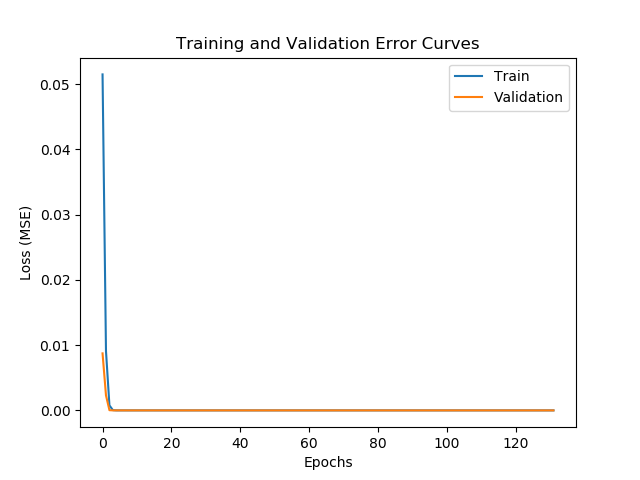
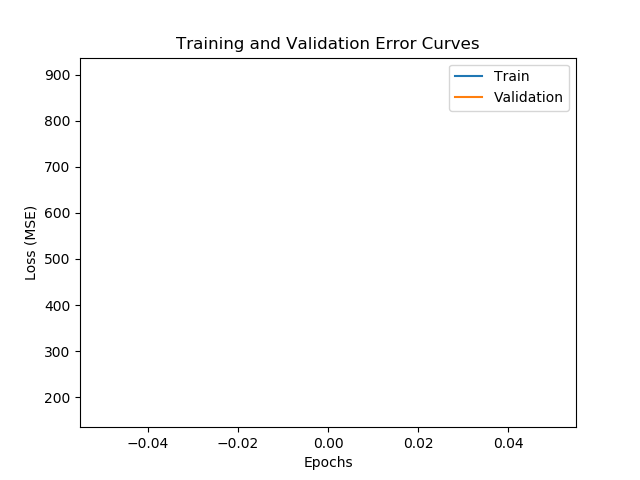
Network training correctly. Started video creation.

diff --git a/neurallib/datasetManager/dataset.py b/neurallib/datasetManager/dataset.py
@@ -7,6 +7,11 @@ from sklearn.utils import shuffle
 from sklearn.preprocessing import StandardScaler, MinMaxScaler
 from neurallib.Util import plot_scatter_matrix, plot_boxPlot
 
+
+import matplotlib.pyplot as plt
+import matplotlib.style
+import matplotlib as mpl
+
 class DataSet:
 	def __init__(self, path, headers, sampling=None, type='table', look_back=1):
 		self.path = path
@@ -32,16 +37,16 @@ class DataSet:
 			self.dataframe = self.concatenate_and_shuffle_dataset(df1, df2)
 
 		elif(type == 'series'):
-			selection = self.__get_selection()
+			self.selection = self.__get_selection()
 			self.dataframe = []
 			self.scalers = []
 
 			__min_size = 0
 
-			for tag in selection["tagids"]:
+			for tag in self.selection["tagids"]:
 				dataframe_slice = main[main.tagid == tag]
 				d_set_aux = []
-				for key in selection["keys"]:
+				for key in self.selection["keys"]:
 					list_to_append = list(dataframe_slice[key].values)
 					if __min_size == 0:
 						__min_size = len(list_to_append)
@@ -167,28 +172,38 @@ class DataSet:
 		time_steps = dataset_shape[len(dataset_shape)-2:][0]
 
 		#normalize the dataset for each sample and feature
-		dataset, scalers = self.__normalize_multidimentional_series(dataset, dataset_shape)
+		#dataset, scalers = self.__normalize_multidimentional_series(dataset, dataset_shape)
 
 		# split into train and test sets
 		train_size = int(time_steps * 0.50)
-		val_size = int(time_steps * 0.25)
 		test_size = int(time_steps * 0.25)
+		val_size = int(time_steps * 0.25)
 
-		train, val, test = self.__split_multidimentional_series(dataset, (0, train_size)),\
+		train, test, val = self.__split_multidimentional_series(dataset, (0, train_size)),\
 		self.__split_multidimentional_series(dataset, (train_size,train_size+val_size)),\
 		self.__split_multidimentional_series(dataset, (train_size+val_size,time_steps))
 
-		#create lookback
+		# create lookback frame
 		X_train, y_train = self.__create_lookback_frame(train, look_back)
-		X_val, y_val = self.__create_lookback_frame(val, look_back)
 		X_test, y_test = self.__create_lookback_frame(test, look_back)
+		X_val, y_val = self.__create_lookback_frame(val, look_back)
 
-		X_train = np.reshape(X_train[0], (X_train.shape[2], X_train.shape[1], X_train.shape[3]))
-		X_val = np.reshape(X_val[0], (X_val.shape[2], X_val.shape[1], X_val.shape[3]))
-		X_test = np.reshape(X_test[0], (X_test.shape[2], X_test.shape[1], X_test.shape[3]))
+		# actually is getting only one player from dataset
+		X_train = X_train[0]
+		X_test = X_test[0]
+		X_val = X_val[0]
 
-		y_train = np.reshape(y_train[0], (y_train.shape[2], y_train.shape[1]))
-		y_val = np.reshape(y_val[0], (y_val.shape[2], y_val.shape[1]))
-		y_test = np.reshape(y_test[0], (y_test.shape[2], y_test.shape[1]))
+		y_train = y_train[0]
+		y_test = y_test[0]
+		y_val = y_val[0]
 
-		return self.__create_spl_dframe(X_train, y_train, X_val, y_val, X_test, y_test), scalers
+		# reshape dataset
+		X_train = np.array([X_train[:,i] for i in range(X_train.shape[1])])
+		X_test = np.array([X_test[:,i] for i in range(X_test.shape[1])])
+		X_val = np.array([X_val[:,i] for i in range(X_val.shape[1])])
+
+		y_train = np.array([y_train[:,i] for i in range(y_train.shape[1])])
+		y_test = np.array([y_test[:,i] for i in range(y_test.shape[1])])
+		y_val = np.array([y_val[:,i] for i in range(y_val.shape[1])])
+
+		return self.__create_spl_dframe(X_train, y_train, X_test, y_test, X_val, y_val), scalers

diff --git a/neurallib/NeuralNetwork.py b/neurallib/NeuralNetwork.py
@@ -111,26 +111,47 @@ class NeuralNetworkGenerator:
 				print("{metric:<18}{value:.4f}".format(metric = "AUROC:", value = roc_auc_score(dset['y_test'], y_pred)))
 			
 			elif(self.architecture == 'lstm'):
-				dset_full = np.append(dset['y_train'], np.append(dset['y_val'], dset['y_test']))
-				dset_full = np.reshape(dset_full, (dset_full.shape[0], 1))
 				# make predictions
 				train_predict = model.predict(dset['X_train'])				
-				val_predict = model.predict(dset['X_val'])
 				test_predict = model.predict(dset['X_test'])
+				val_predict = model.predict(dset['X_val'])
+
 				# invert predictions
-				train_predict = self.__scaler.inverse_transform(train_predict)
-				y_train = self.__scaler.inverse_transform([dset['y_train']])
-				val_predict = self.__scaler.inverse_transform(val_predict)
-				y_val = self.__scaler.inverse_transform([dset['y_val']])
-				test_predict = self.__scaler.inverse_transform(test_predict)
-				y_test = self.__scaler.inverse_transform([dset['y_test']])
+				# train_predict = self.__scaler.inverse_transform(train_predict)
+				# y_train = self.__scaler.inverse_transform([dset['y_train']])
+				# val_predict = self.__scaler.inverse_transform(val_predict)
+				# y_val = self.__scaler.inverse_transform([dset['y_val']])
+				# test_predict = self.__scaler.inverse_transform(test_predict)
+				# y_test = self.__scaler.inverse_transform([dset['y_test']])
+				y_train = dset['y_train']
+				y_test = dset['y_test']
+				y_val = dset['y_val']
 				# calculate root mean squared error
-				print("{metric:<18}{value:.4f}".format(metric = "Train Score RMSE:", value = math.sqrt(mean_squared_error(y_train[0], train_predict[:,0]))))
-				print("{metric:<18}{value:.4f}".format(metric = "Val Score RMSE:", value = math.sqrt(mean_squared_error(y_val[0], val_predict[:,0]))))
-				print("{metric:<18}{value:.4f}".format(metric = "Test Score RMSE:", value =math.sqrt(mean_squared_error(y_test[0], test_predict[:,0]))))
+				print("{metric:<18}{value:.4f}".format(metric = "Train Score RMSE:", value = math.sqrt(mean_squared_error(y_train, train_predict))))
+				print("{metric:<18}{value:.4f}".format(metric = "Val Score RMSE:", value = math.sqrt(mean_squared_error(y_val, val_predict))))
+				print("{metric:<18}{value:.4f}".format(metric = "Test Score RMSE:", value =math.sqrt(mean_squared_error(y_test, test_predict))))
 
-				plot_series(dset_full, train_predict, val_predict, test_predict, self.__look_back, self.__scaler)
+				# generate output and result files
+				dset_full = np.append(dset['y_train'], np.append(dset['y_test'], dset['y_val'], axis=0), axis=0)
+				result_full = np.append(train_predict, np.append(test_predict, val_predict, axis=0), axis=0)
+				ouput_series_file(dset_full, "ouput/dset_full.xyz")
+				ouput_series_file(dset_full, "ouput/result_full.xyz")
 
+				make_video_from_series(output_path="output/")
+
+				for i in range(np.array(dset_full).shape[1]):
+					dset_iteration = [[d[i]] for d in dset_full]
+					train_iteration = [[d[i]] for d in train_predict]
+					test_iteration = [[d[i]] for d in test_predict]
+					val_iteration = [[d[i]] for d in val_predict]
+
+					plot_series(dset_iteration, train_iteration,\
+						test_iteration, val_iteration,\
+						self.__look_back, self.__scaler,\
+						dimension=dataset.selection["keys"][i])
+
+				
+						
 			x += 1
 
 		#self.store_test_scores()

diff --git a/neurallib/Util.py b/neurallib/Util.py
@@ -1,9 +1,14 @@
 import numpy as np
 from sklearn.metrics import roc_curve
 
+import sys, os
 import warnings # current version of seaborn generates a bunch of warnings that we'll ignore
+import matplotlib
 warnings.filterwarnings("ignore")
+
 import seaborn as sns
+matplotlib.use("Agg")
+import matplotlib.animation as animation
 import matplotlib.pyplot as plt
 import matplotlib.style
 import matplotlib as mpl
@@ -73,7 +78,7 @@ def plot_boxPlot(dset):
 	
 	plt.savefig("./results/dset_boxplot.png")
 
-def plot_series(dset_full, train_predict, val_predict, test_predict, look_back, scaler, dimension='x'):
+def plot_series(dset_full, train_predict, val_predict, test_predict, look_back, scaler, dimension='x', arch_idx=None):
 	print("Plotting serie curve...")
 
 	mpl.style.use('default')
@@ -93,7 +98,7 @@ def plot_series(dset_full, train_predict, val_predict, test_predict, look_back, 
 	test_predict_plot[:, :] = np.nan
 	test_predict_plot[len(dset_full)-len(test_predict):len(dset_full), :] = test_predict
 	# plot baseline and predictions
-	plt.plot(scaler.inverse_transform(dset_full))
+	plt.plot(dset_full)
 	plt.plot(train_predict_plot)
 	plt.plot(val_predict_plot)
 	plt.plot(test_predict_plot)
@@ -107,7 +112,70 @@ def plot_series(dset_full, train_predict, val_predict, test_predict, look_back, 
 
 	fig.savefig(file)
 
-def plot_2d_series(dset_full, train_predict, val_predict, test_predict, look_back, scaler):
-	print("Plotting 2D serie curve...")
-	mpl.style.use('default')
-	#TODO
+def ouput_series_file(data, file_path):
+	file = open(file_path, 'w')
+	file.write(str(data))
+	file.close()
+
+# code gently given by marcelsan
+def navigate_all_files(root_path, patterns):
+    """
+    A generator function that iterates all files that matches the given patterns
+    from the root_path.
+    """
+    for root, dirs, files in os.walk(root_path):
+        for pattern in patterns:
+            for filename in fnmatch.filter(files, pattern):
+                yield os.path.join(root, filename)
+
+def get_all_files(root_path, patterns):
+    """
+    Returns a list of all files that matches the given patterns from the
+    root_path.
+    """
+    ret = []
+    for filepath in navigate_all_files(root_path, patterns):
+        ret.append(filepath)
+    return ret
+
+def render_frame(num, data, line):
+    xyz_file = open(files[num])
+    
+    _x = []
+    _y = []
+
+    for xyz in xyz_file:   
+        _x.append(float(xyz.split()[0]))
+        _y.append(float(xyz.split()[1]))
+
+    line.set_data(_x, _y)
+    xyz_file.close()
+
+    return line,
+
+def make_video_from_series(output_path=""):
+	# Simulation Path
+	print("Creating video...")
+	path = output_path
+	output_name = output_path + 'series_result.mp4'
+	files = get_all_files(path, "*.xyz")
+	size_files = len(files)
+
+	# Set up formatting for the movie files
+	Writer = animation.writers['ffmpeg']
+	writer = Writer(fps=20, bitrate=1800)
+
+	fig1 = plt.figure()
+
+	data = []
+	l, = plt.plot([], [], 'ro')
+
+	plt.xlim(0, 1)
+	plt.ylim(0, 1)
+	plt.xlabel('x')
+	plt.title('Simulation Result')
+
+	line_ani = animation.FuncAnimation(fig1, render_frame, size_files, fargs=(data, l),
+									interval=50, blit=True)
+
+	line_ani.save(output_name, writer=writer)

diff --git a/main.py b/main.py
@@ -10,7 +10,7 @@ def main():
 
 	dataset = DataSet(dset_path, headers, type='series', look_back=1)
 
-	nn = NeuralNetworkGenerator("./input/nn.txt", 'lstm', epochs=100000, batch_size=1000, scaler=dataset.scalers)
+	nn = NeuralNetworkGenerator("./input/nn.txt", 'lstm', epochs=1, batch_size=1000, scaler=dataset.scalers)
 	nn.evaluate(dataset)
 	return
 
